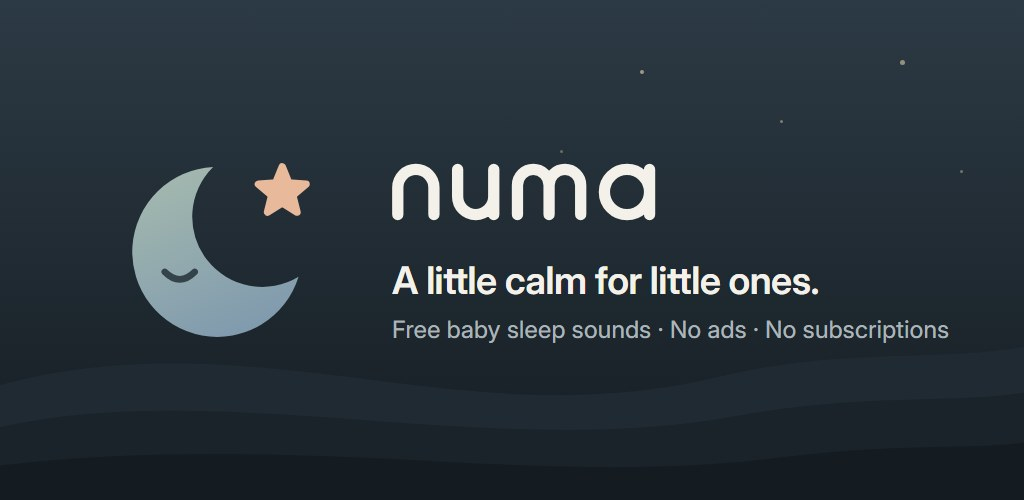
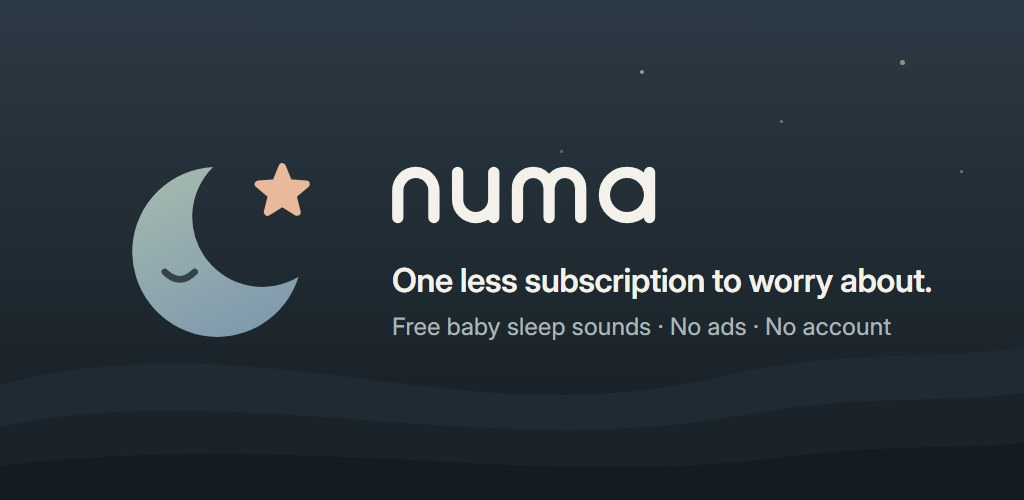
Change tagline to "One less subscription to worry about."

diff --git a/index.html b/index.html
@@ -4,11 +4,11 @@
 <meta charset="utf-8">
 <meta name="viewport" content="width=device-width, initial-scale=1">
 <title>Numa: Baby Sleep Sounds</title>
-<meta name="description" content="A little calm for little ones. Free baby sleep sounds for Android: white noise, heartbeat, rain and more. No ads, no subscriptions, no account. Works offline.">
+<meta name="description" content="One less subscription to worry about. Free baby sleep sounds for Android: white noise, heartbeat, rain and more. No ads, no subscriptions, no account. Works offline.">
 <meta name="theme-color" content="#F7F4EE" media="(prefers-color-scheme: light)">
 <meta name="theme-color" content="#11161A" media="(prefers-color-scheme: dark)">
 <meta property="og:title" content="Numa: Baby Sleep Sounds">
-<meta property="og:description" content="A little calm for little ones. Free sounds for tired parents. No ads, no subscriptions.">
+<meta property="og:description" content="One less subscription to worry about. Free baby sleep sounds for tired parents. No ads, no account.">
 <meta property="og:image" content="https://leaskeg.github.io/numa-legal/assets/og-image.jpg">
 <meta property="og:type" content="website">
 <meta name="twitter:card" content="summary_large_image">
@@ -35,7 +35,7 @@
     <div class="wrap herogrid">
       <div class="copy">
         <p class="eyebrow">Free baby sleep sounds for Android</p>
-        <h1>A little calm for little ones.</h1>
+        <h1>One less subscription to worry about.</h1>
         <p class="lead">Soft, steady sounds to help your baby settle. Pick a sound, press play and put the phone down.</p>
         <a class="badge" href="https://play.google.com/store/apps/details?id=com.numa.sounds" aria-label="Get it on Google Play"><img src="assets/google-play-badge.png" width="646" height="250" alt="Get it on Google Play"></a>
         <ul class="promises" aria-label="Always free">
@@ -129,7 +129,7 @@
       <a href="terms.html">Terms of Use</a>
       <a href="safety.html">Safety</a>
     </nav>
-    <p class="muted">© 2026 Numa · A little calm for little ones.</p>
+    <p class="muted">© 2026 Numa · Free sounds for tired parents.</p>
   </div>
   <p class="wrap legalnote">Google Play and the Google Play logo are trademarks of Google LLC.</p>
 </footer>
